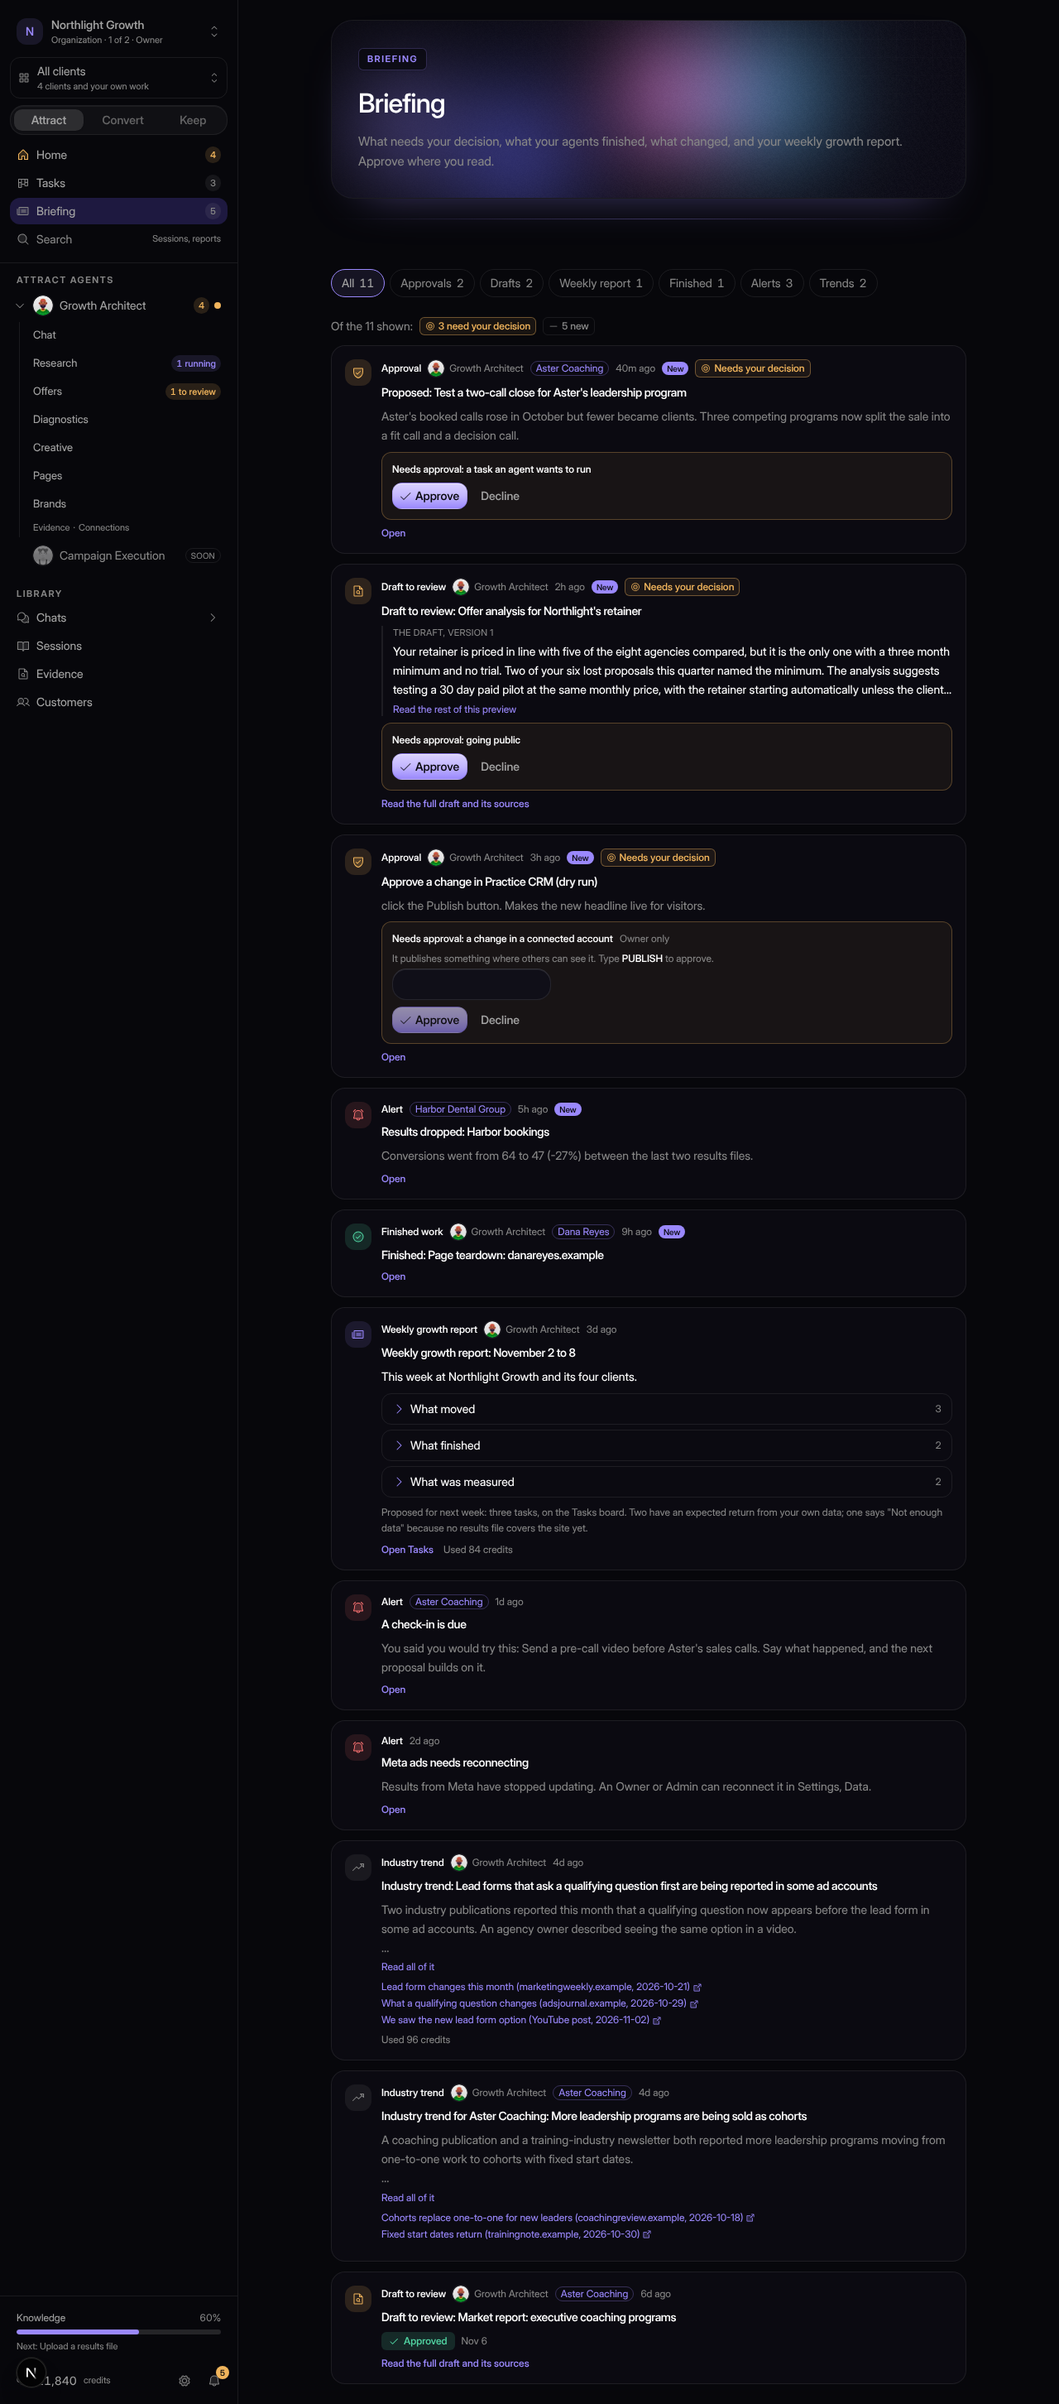
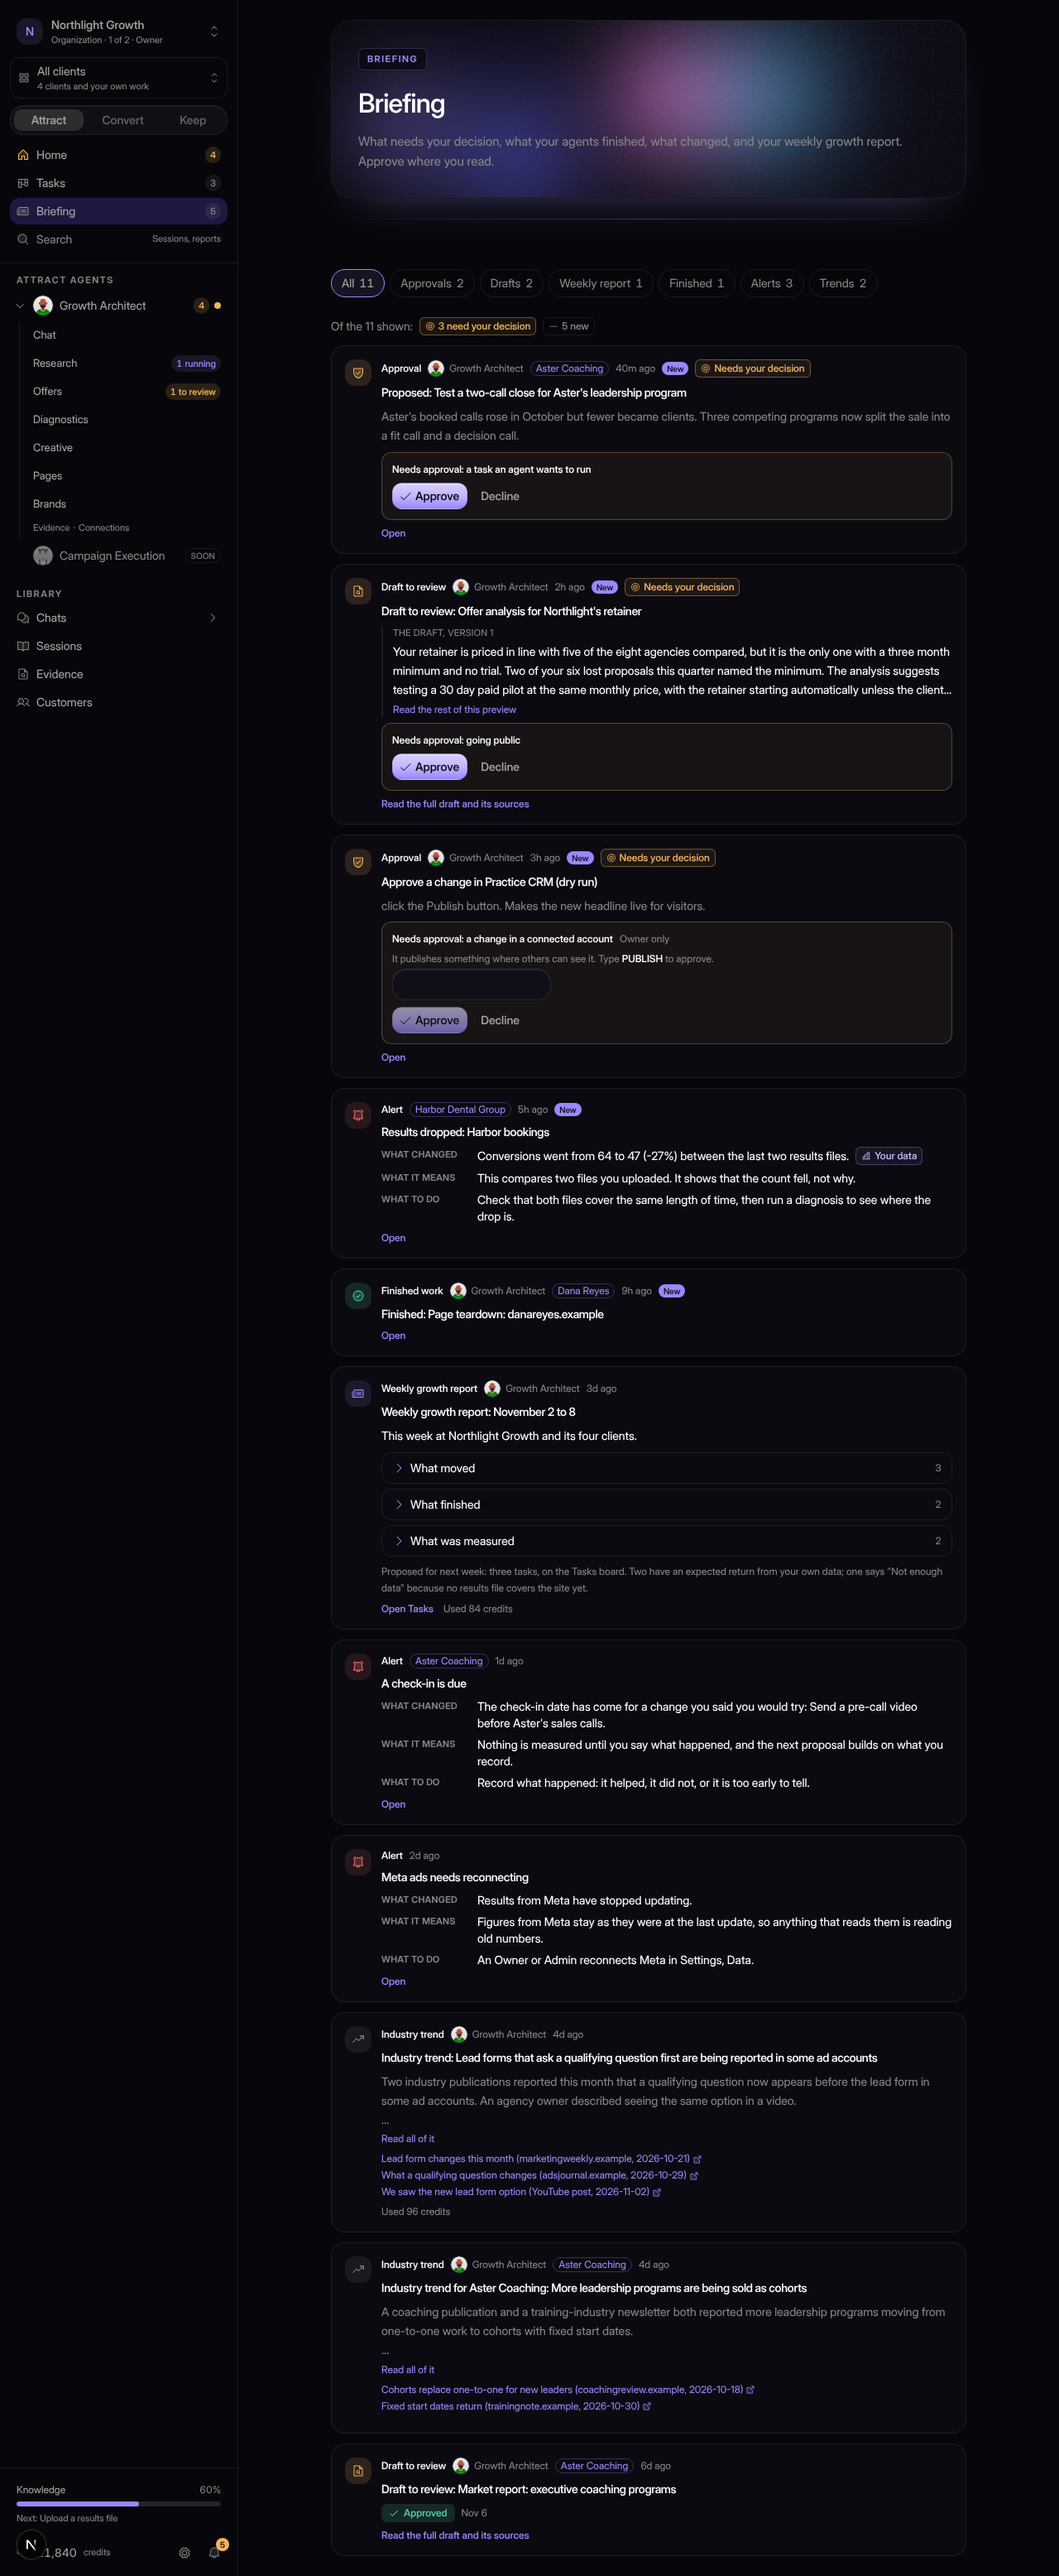
Briefing: three rows on posts written in code (what changed, what it means, what to do)
Owner's decision. An optional digest on briefing posts, filled from fixed
templates for a check-in due, a connection that stopped, results that
dropped and credits running low. No model writes it. Older posts and
model-written posts show their body as before.

Claude-Session: https://claude.ai/code/session_01BiDhVKLPcLkGsN39DWFDf5

diff --git a/convex/briefing.ts b/convex/briefing.ts
@@ -17,6 +17,7 @@ import { accountFor, billingOn } from "./lib/billing";
 import { post } from "./lib/briefing";
 import { selfMutation, workspaceQuery } from "./lib/builders";
 import { creditWords } from "./lib/credits";
+import { BASIS_LABEL } from "./lib/evidence";
 import { BRIEFING_KINDS, briefingKind, type BriefingKind } from "./lib/taskShapes";
 
 const FEED_LIMIT = 150;
@@ -125,6 +126,8 @@ export const feed = workspaceQuery({
         href: await hrefOf(ctx, row),
         sources: row.sources ?? [],
         credits: row.credits ?? null,
+        /** Three rows written in code, with the evidence label of the "changed" row when it states the business's own figures. Null on older posts and on anything a model wrote. */
+        digest: row.digest ? { changed: row.digest.changed, means: row.digest.means, todo: row.digest.todo, changedLabel: row.digest.firstParty ? BASIS_LABEL.firstParty : null } : null,
         approval: approval && approval.workspaceId === ctx.workspaceId ? await approvalView(ctx, approval) : null,
         draft: await draftPreview(ctx, row),
       });
@@ -173,17 +176,17 @@ export async function alertsFor(ctx: MutationCtx, workspace: Doc<"workspaces">) 
     .take(50);
   for (const decision of due) {
     if (decision.outcome) continue;
-    await post(ctx, { workspaceId, clientId: decision.clientId, kind: "alert", title: "A check-in is due", body: `You said you would try this: ${decision.proposedAction} Say what happened, and the next proposal builds on it.`, ref: { table: "decisions", id: decision._id }, key: `checkin:${decision._id}` });
+    await post(ctx, { workspaceId, clientId: decision.clientId, kind: "alert", title: "A check-in is due", body: `You said you would try this: ${decision.proposedAction} Say what happened, and the next proposal builds on it.`, digest: { changed: `The check-in date has come for a change you said you would try: ${decision.proposedAction}`, means: "Nothing is measured until you say what happened, and the next proposal builds on what you record.", todo: "Record what happened: it helped, it did not, or it is too early to tell." }, ref: { table: "decisions", id: decision._id }, key: `checkin:${decision._id}` });
   }
 
   // A connection broke.
   const meta = await ctx.db.query("metaConnections").withIndex("by_workspace", (q) => q.eq("workspaceId", workspaceId)).take(20);
   for (const row of meta) {
-    if (row.status === "needsReconnect") await post(ctx, { workspaceId, clientId: row.clientId, kind: "alert", title: "Meta ads needs reconnecting", body: "Results from Meta have stopped updating. An Owner or Admin can reconnect it in Settings, Data.", ref: { table: "connections", id: row._id }, key: `connection:${row._id}:${row.connectedAt ?? 0}` });
+    if (row.status === "needsReconnect") await post(ctx, { workspaceId, clientId: row.clientId, kind: "alert", title: "Meta ads needs reconnecting", body: "Results from Meta have stopped updating. An Owner or Admin can reconnect it in Settings, Data.", digest: { changed: "Results from Meta have stopped updating.", means: "Figures from Meta stay as they were at the last update, so anything that reads them is reading old numbers.", todo: "An Owner or Admin reconnects Meta in Settings, Data." }, ref: { table: "connections", id: row._id }, key: `connection:${row._id}:${row.connectedAt ?? 0}` });
   }
   const others = await ctx.db.query("integrationConnections").withIndex("by_workspace_provider", (q) => q.eq("workspaceId", workspaceId)).take(50);
   for (const row of others) {
-    if (row.status === "needsReconnect") await post(ctx, { workspaceId, clientId: row.clientId, kind: "alert", title: "A connected account needs reconnecting", body: "One of your connected accounts has stopped updating. An Owner or Admin can reconnect it in Settings, Data.", ref: { table: "connections", id: row._id }, key: `connection:${row._id}:${row.connectedAt ?? 0}` });
+    if (row.status === "needsReconnect") await post(ctx, { workspaceId, clientId: row.clientId, kind: "alert", title: "A connected account needs reconnecting", body: "One of your connected accounts has stopped updating. An Owner or Admin can reconnect it in Settings, Data.", digest: { changed: "One of your connected accounts has stopped updating.", means: "Figures from that account stay as they were at the last update, so anything that reads them is reading old numbers.", todo: "An Owner or Admin reconnects it in Settings, Data." }, ref: { table: "connections", id: row._id }, key: `connection:${row._id}:${row.connectedAt ?? 0}` });
   }
 
   // Results dropped: the newest results file against the one before it, for the same source and client.
@@ -199,7 +202,7 @@ export async function alertsFor(ctx: MutationCtx, workspace: Doc<"workspaces">) 
     if (before === undefined || after === undefined || before <= 0) continue;
     const percent = Math.round(((after - before) / before) * 100);
     if (percent > -DROP_PERCENT) continue;
-    const posted = await post(ctx, { workspaceId, clientId: later.clientId, kind: "alert", title: `Results dropped: ${later.label}`, body: `Conversions went from ${before.toLocaleString("en-US")} to ${after.toLocaleString("en-US")} (${percent}%) between the last two results files.`, ref: { table: "resultUploads", id: later._id }, key: `drop:${later._id}` });
+    const posted = await post(ctx, { workspaceId, clientId: later.clientId, kind: "alert", title: `Results dropped: ${later.label}`, body: `Conversions went from ${before.toLocaleString("en-US")} to ${after.toLocaleString("en-US")} (${percent}%) between the last two results files.`, digest: { changed: `Conversions went from ${before.toLocaleString("en-US")} to ${after.toLocaleString("en-US")} (${percent}%) between the last two results files.`, means: "This compares two files you uploaded. It shows that the count fell, not why.", todo: "Check that both files cover the same length of time, then run a diagnosis to see where the drop is.", firstParty: true }, ref: { table: "resultUploads", id: later._id }, key: `drop:${later._id}` });
     // Results dropping is something real that changed. Only the first time it is seen.
     if (posted) await ctx.scheduler.runAfter(0, internal.planner.changed, { workspaceId, key: `drop:${later._id}` });
   }
@@ -209,7 +212,7 @@ export async function alertsFor(ctx: MutationCtx, workspace: Doc<"workspaces">) 
     const account = await accountFor(ctx, workspaceId);
     const balance = account?.balanceCents ?? 0;
     if (balance <= LOW_CREDITS) {
-      await post(ctx, { workspaceId, kind: "alert", title: balance <= 0 ? "You are out of credits" : "Credits are running low", body: `${creditWords(Math.max(0, balance))} left in the shared balance. An Owner can add credits in Billing.`, ref: { table: "billing", id: "balance" }, key: `credits:${weekKey(now)}:${balance <= 0 ? "empty" : "low"}` });
+      await post(ctx, { workspaceId, kind: "alert", title: balance <= 0 ? "You are out of credits" : "Credits are running low", body: `${creditWords(Math.max(0, balance))} left in the shared balance. An Owner can add credits in Billing.`, digest: { changed: `${creditWords(Math.max(0, balance))} left in the shared balance.`, means: balance <= 0 ? "Work that uses credits cannot run until credits are added." : "A run stops early if the balance runs out before it finishes.", todo: "An Owner adds credits in Billing." }, ref: { table: "billing", id: "balance" }, key: `credits:${weekKey(now)}:${balance <= 0 ? "empty" : "low"}` });
     }
   }
 }

diff --git a/src/app/dev/briefing/fixtures.ts b/src/app/dev/briefing/fixtures.ts
@@ -8,7 +8,7 @@ const DAY = 24 * HOUR;
 let count = 0;
 function item(input: Partial<Post> & Pick<Post, "kind" | "kindLabel" | "title" | "at">): Post {
   count += 1;
-  return { id: `b${count}` as Id<"briefingItems">, agentSlug: "growth-architect", client: null, body: null, unread: false, href: null, sources: [], credits: null, approval: null, draft: null, ...input };
+  return { id: `b${count}` as Id<"briefingItems">, agentSlug: "growth-architect", client: null, body: null, unread: false, href: null, sources: [], credits: null, digest: null, approval: null, draft: null, ...input };
 }
 
 type Approval = NonNullable<Post["approval"]>;
@@ -81,6 +81,7 @@ export function storyFeed(state: string, kind: string | null): Feed {
       kindLabel: "Alert",
       title: "Results dropped: Harbor bookings",
       body: "Conversions went from 64 to 47 (-27%) between the last two results files.",
+      digest: { changed: "Conversions went from 64 to 47 (-27%) between the last two results files.", means: "This compares two files you uploaded. It shows that the count fell, not why.", todo: "Check that both files cover the same length of time, then run a diagnosis to see where the drop is.", changedLabel: "Your data" },
       client: "Harbor Dental Group",
       agentSlug: null,
       at: NOW - 5 * HOUR,
@@ -89,8 +90,8 @@ export function storyFeed(state: string, kind: string | null): Feed {
     }),
     item({ kind: "finished", kindLabel: "Finished work", title: "Finished: Page teardown: danareyes.example", client: "Dana Reyes", at: NOW - 9 * HOUR, unread: true, href: "/app/assets/a7" }),
     item({ kind: "weeklyReport", kindLabel: "Weekly growth report", title: "Weekly growth report: November 2 to 8", body: WEEKLY, at: NOW - 3 * DAY, href: "/app/tasks", credits: 84 }),
-    item({ kind: "alert", kindLabel: "Alert", title: "A check-in is due", body: "You said you would try this: Send a pre-call video before Aster's sales calls. Say what happened, and the next proposal builds on it.", client: "Aster Coaching", agentSlug: null, at: NOW - 1 * DAY, href: "/app/tasks" }),
-    item({ kind: "alert", kindLabel: "Alert", title: "Meta ads needs reconnecting", body: "Results from Meta have stopped updating. An Owner or Admin can reconnect it in Settings, Data.", agentSlug: null, at: NOW - 2 * DAY, href: "/app/settings?section=data" }),
+    item({ kind: "alert", kindLabel: "Alert", title: "A check-in is due", body: "You said you would try this: Send a pre-call video before Aster's sales calls. Say what happened, and the next proposal builds on it.", digest: { changed: "The check-in date has come for a change you said you would try: Send a pre-call video before Aster's sales calls.", means: "Nothing is measured until you say what happened, and the next proposal builds on what you record.", todo: "Record what happened: it helped, it did not, or it is too early to tell.", changedLabel: null }, client: "Aster Coaching", agentSlug: null, at: NOW - 1 * DAY, href: "/app/tasks" }),
+    item({ kind: "alert", kindLabel: "Alert", title: "Meta ads needs reconnecting", body: "Results from Meta have stopped updating. An Owner or Admin can reconnect it in Settings, Data.", digest: { changed: "Results from Meta have stopped updating.", means: "Figures from Meta stay as they were at the last update, so anything that reads them is reading old numbers.", todo: "An Owner or Admin reconnects Meta in Settings, Data.", changedLabel: null }, agentSlug: null, at: NOW - 2 * DAY, href: "/app/settings?section=data" }),
     item({
       kind: "trend",
       kindLabel: "Industry trend",

diff --git a/convex/tasks.test.ts b/convex/tasks.test.ts
@@ -517,6 +517,15 @@ describe("the Briefing", () => {
     expect(alerts.map((row) => row.title).sort()).toEqual(["A check-in is due", "Meta ads needs reconnecting", "Results dropped: Aster bookings"]);
     expect(alerts.find((row) => row.title.startsWith("Results dropped"))).toMatchObject({ client: "Aster Coaching", body: "Conversions went from 40 to 28 (-30%) between the last two results files.", href: "/app/connections/results" });
     // The Member is not assigned to Harbor, so its check-in is not in their Briefing.
+    // Posts written in code carry three rows; the row that states the business's own figures is labelled so.
+    expect(alerts.find((row) => row.title.startsWith("Results dropped"))?.digest).toEqual({
+      changed: "Conversions went from 40 to 28 (-30%) between the last two results files.",
+      means: "This compares two files you uploaded. It shows that the count fell, not why.",
+      todo: "Check that both files cover the same length of time, then run a diagnosis to see where the drop is.",
+      changedLabel: "Your data",
+    });
+    expect(alerts.find((row) => row.title === "Meta ads needs reconnecting")?.digest).toMatchObject({ changed: "Results from Meta have stopped updating.", changedLabel: null });
+    expect(alerts.find((row) => row.title === "A check-in is due")?.digest?.todo).toBe("Record what happened: it helped, it did not, or it is too early to tell.");
     expect((await member.query(api.briefing.feed, { workspaceId, kind: "alert" })).items.map((row) => row.title).sort()).toEqual(["Meta ads needs reconnecting", "Results dropped: Aster bookings"]);
   });
 

diff --git a/src/components/briefing/briefing-feed.tsx b/src/components/briefing/briefing-feed.tsx
@@ -8,7 +8,7 @@ import { useEffect, useRef, useState } from "react";
 
 import { BellRing, Check, CheckCircle2, ExternalLink, FileSearch, Newspaper, ShieldCheck, TrendingUp, type LucideIcon } from "@/components/icons";
 import { useClientScope, useWorkspaceShell } from "@/components/shell/shell-context";
-import { Detail, LongText, ModelMark, StatusChip } from "@/components/readable";
+import { Detail, Digest, LongText, ModelMark, StatusChip } from "@/components/readable";
 import { Button } from "@/components/ui/button";
 import { EmptyState } from "@/components/ui/empty-state";
 import { Input } from "@/components/ui/input";
@@ -202,7 +202,11 @@ function PostCard({ post, now, agentName, decide }: { post: Post; now: number; a
           <ModelMark />
         </p>
         <h2 className="text-sm font-medium break-words text-card-foreground">{post.title}</h2>
-        {post.body ? <PostBody body={post.body} /> : null}
+        {post.digest ? (
+          <Digest changed={{ text: post.digest.changed, label: post.digest.changedLabel }} means={{ text: post.digest.means }} todo={{ text: post.digest.todo }} />
+        ) : post.body ? (
+          <PostBody body={post.body} />
+        ) : null}
         {post.draft?.text ? (
           <blockquote className="grid gap-1 border-l-2 border-border pl-3">
             <p className="text-[11px] tracking-wide text-muted-foreground uppercase">The draft, version {post.draft.version}</p>

diff --git a/convex/lib/briefing.ts b/convex/lib/briefing.ts
@@ -24,6 +24,8 @@ export type BriefingPost = {
   approvalId?: Id<"approvals">;
   sources?: { title: string; url: string }[];
   credits?: number;
+  /** Three short rows for a post written in code: what changed, what it means, what to do. Never model text. */
+  digest?: { changed: string; means: string; todo: string; firstParty?: boolean };
   /** A post with a key is written once per organization. */
   key?: string;
 };
@@ -63,6 +65,7 @@ export async function post(ctx: MutationCtx, item: BriefingPost): Promise<Id<"br
     ...(item.approvalId ? { approvalId: item.approvalId } : {}),
     ...(item.sources?.length ? { sources: item.sources.slice(0, 8).map((source) => ({ title: clip(source.title, 160), url: source.url.slice(0, 500) })) } : {}),
     ...(item.credits !== undefined ? { credits: item.credits } : {}),
+    ...(item.digest ? { digest: { changed: clip(item.digest.changed, 400), means: clip(item.digest.means, 300), todo: clip(item.digest.todo, 300), ...(item.digest.firstParty ? { firstParty: true } : {}) } } : {}),
     ...(item.key ? { key: item.key } : {}),
     at: Date.now(),
   });

diff --git a/convex/schema.ts b/convex/schema.ts
@@ -2005,6 +2005,12 @@ export default defineSchema({
     sources: v.optional(v.array(v.object({ title: v.string(), url: v.string() }))),
     /** What writing the post used, in credits (the weekly report, a trend post). */
     credits: v.optional(v.number()),
+    /**
+     * The post in three short rows: what changed, what it means, what to do. Only on posts whose words are
+     * written in code (alerts), never on a post a model wrote. `firstParty` marks a "changed" row that states
+     * the business's own figures. Older posts have none and show their body.
+     */
+    digest: v.optional(v.object({ changed: v.string(), means: v.string(), todo: v.string(), firstParty: v.optional(v.boolean()) })),
     key: v.optional(v.string()),
     at: v.number(),
   })

diff --git a/docs/rebuild/readable-output.md b/docs/rebuild/readable-output.md
@@ -350,9 +350,12 @@ is unchanged.
 | Count beside each list of the weekly report | lines of that list in the post's own body |
 | Evidence label on a task | `expectedReturn.basis`, as saved |
 
-The `Digest` block (what changed, what it means, what to do) from part 1 is not used here. A post has a
-title, a body and a link, not three separate fields, and splitting a body into "what it means" would need
-either new words from a model or a guess. It stays in the kit for a post kind that gains those fields.
+**Posts written in code** (a check-in due, a connection that stopped, results that dropped, credits
+running low) carry three rows: what changed, what it means, what to do (owner's decision, 2026-11-13).
+The words are fixed templates in `convex/briefing.ts`, filled with the same figures the body already had;
+no model writes them. They are saved in an optional `digest` field on the post. The row that states the
+business's own figures (results dropped) carries "Your data". Posts saved before this, and every post a
+model wrote, have no digest and show their body as before.
 
 Pictures: `briefing-before-*`, `briefing-after-*`, `tasks-before-*`, `tasks-after-*`.
 
